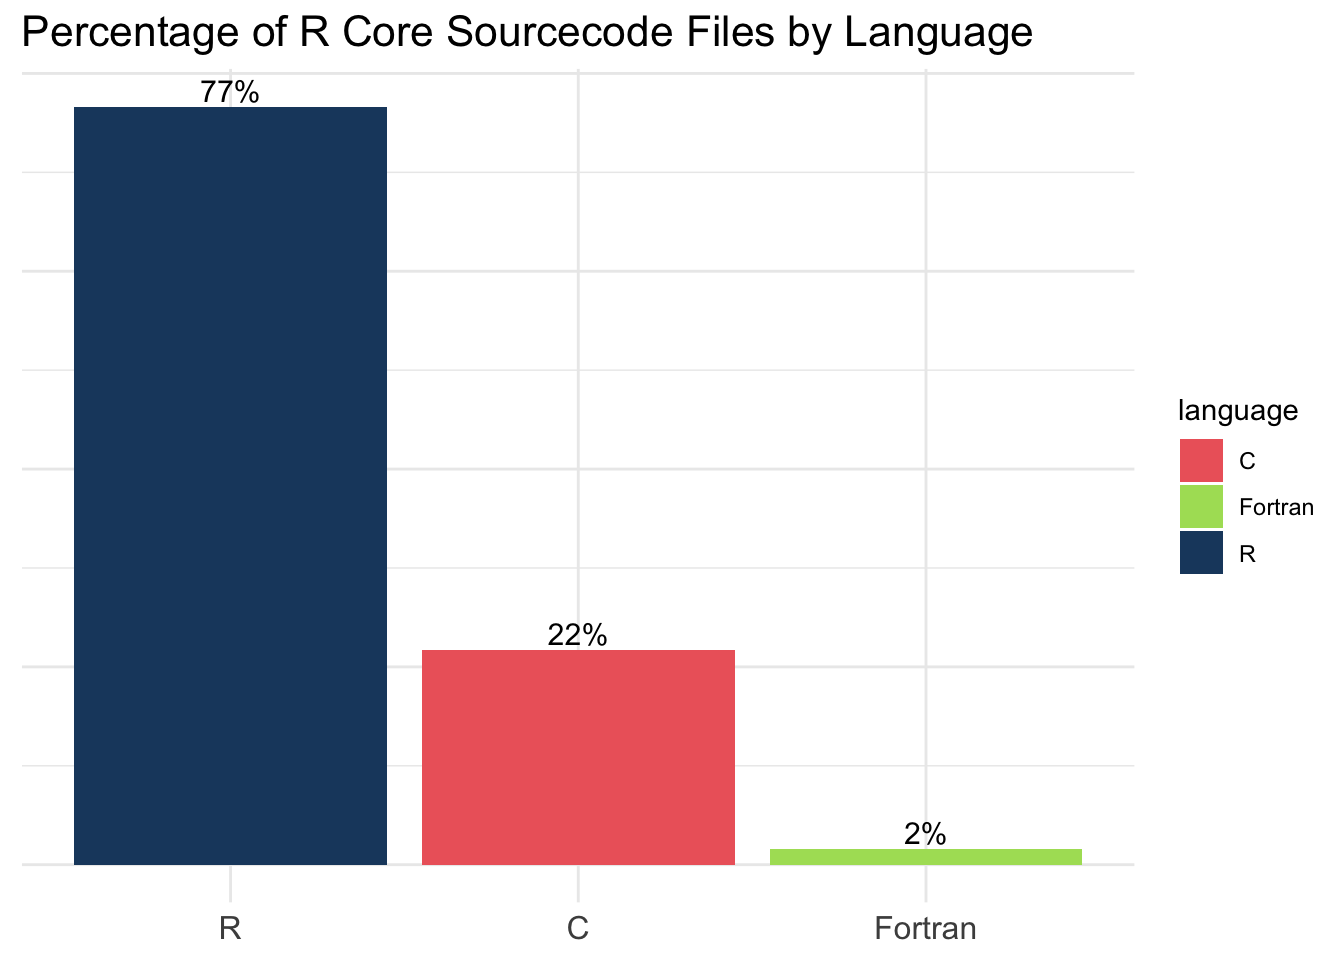
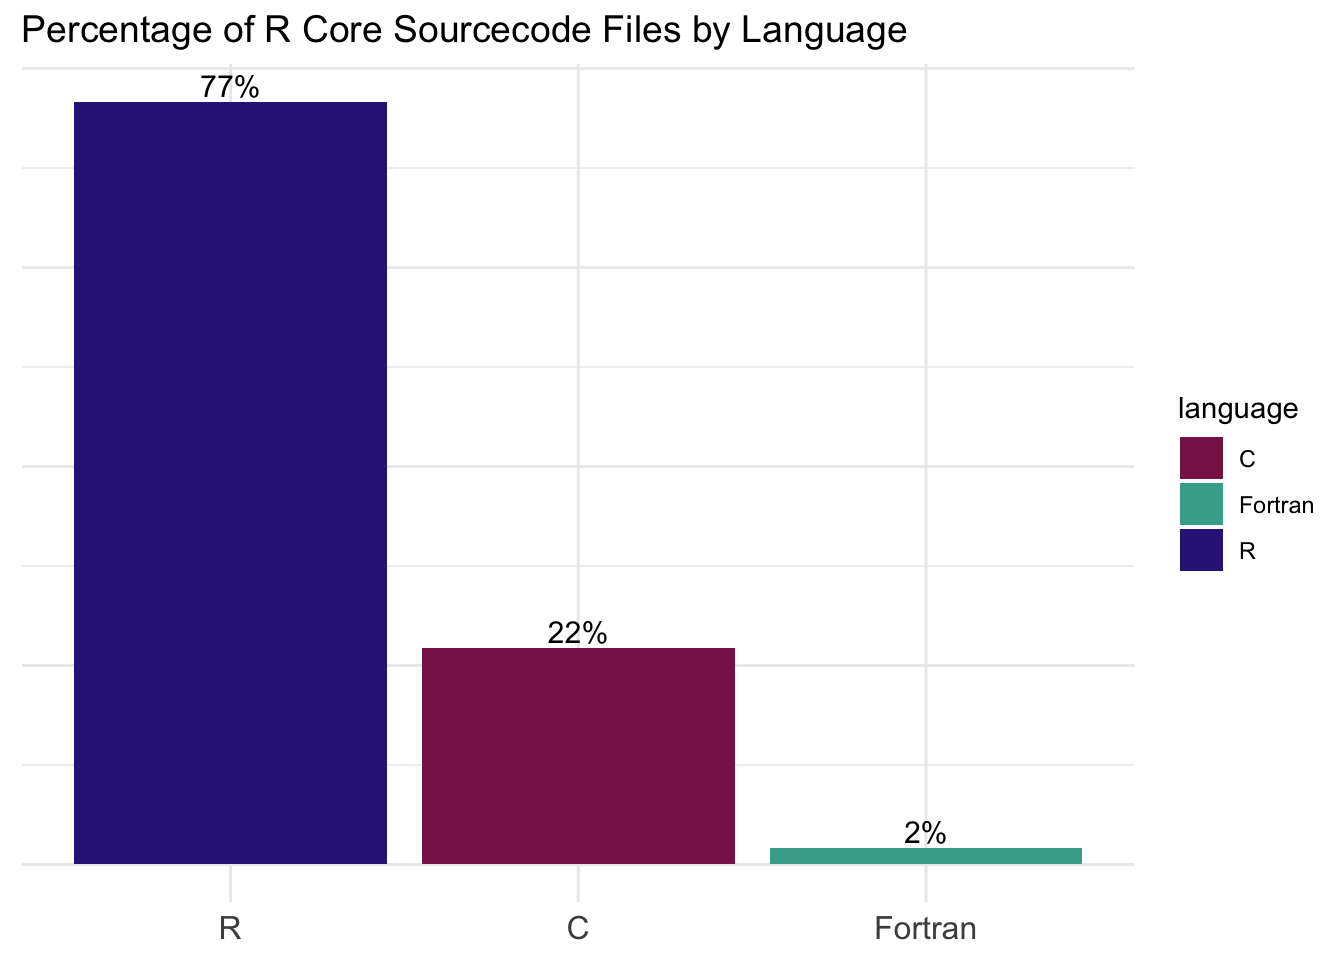
Change colors

Changed region(s): [[0.0, 0.0, 0.8125, 0.9062], [0.875, 0.4062, 0.9688, 0.625]]

diff --git a/til-r/r-composition/index.knit.md b/til-r/r-composition/index.knit.md
@@ -5,6 +5,8 @@ category: R
 output: html_document
 ---
 
+
+
 Cleaning out my computer as I get ready to switch to a new one has me running into old gems. So, when I say "Today I learned," I really mean "I learned this back in December 2021." 😅
 
 Back then, I gave a talk at Why R? called 
@@ -39,8 +41,11 @@ done
 
 The script creates a file called `r_source_loc.csv`. It shows the number of lines by programming language by script in R 4.1.2. We can read it into R:
 
-```{r}
-#| warning: false
+
+
+::: {.cell}
+
+```{.r .cell-code}
 library(dplyr)
 library(stringr)
 
@@ -56,9 +61,33 @@ r_loc <-
 head(r_loc)
 ```
 
+::: {.cell-output .cell-output-stdout}
+
+```
+# A tibble: 6 × 3
+  language lines script        
+  <chr>    <dbl> <chr>         
+1 R           20 .snow2.RR     
+2 R            9 .multicore3.RR
+3 R           15 .multicore2.RR
+4 R           10 .multicore1.RR
+5 R           25 .RSeed.R      
+6 R           36 .Master.R     
+```
+
+
+:::
+:::
+
+
+
 Now, we can visualize the percentage of R Core sourcecode files by language using ggplot2:
 
-```{r}
+
+
+::: {.cell}
+
+```{.r .cell-code}
 library(ggplot2)
 library(forcats)
 
@@ -87,9 +116,20 @@ r_loc |>
                                "Fortran" = "#44AA99"))
 ```
 
+::: {.cell-output-display}
+![](index_files/figure-html/unnamed-chunk-2-1.png){width=672}
+:::
+:::
+
+
+
 Or, we can visualize the percentage of R Core lines of code by language:
 
-```{r}
+
+
+::: {.cell}
+
+```{.r .cell-code}
 r_loc |> 
   filter(!is.na(language)) |> 
   group_by(language) %>% 
@@ -116,5 +156,12 @@ r_loc |>
                                "C" = "#882255", 
                                "Fortran" = "#44AA99"))
 ```
+
+::: {.cell-output-display}
+![](index_files/figure-html/unnamed-chunk-3-1.png){width=672}
+:::
+:::
+
+
 
 It’s interesting to see how much goes into making R what it is: an ecosystem built on collaboration across languages and tools (which was the takeaway from the talk!). If you’re curious about R's source code, give the script a shot!
